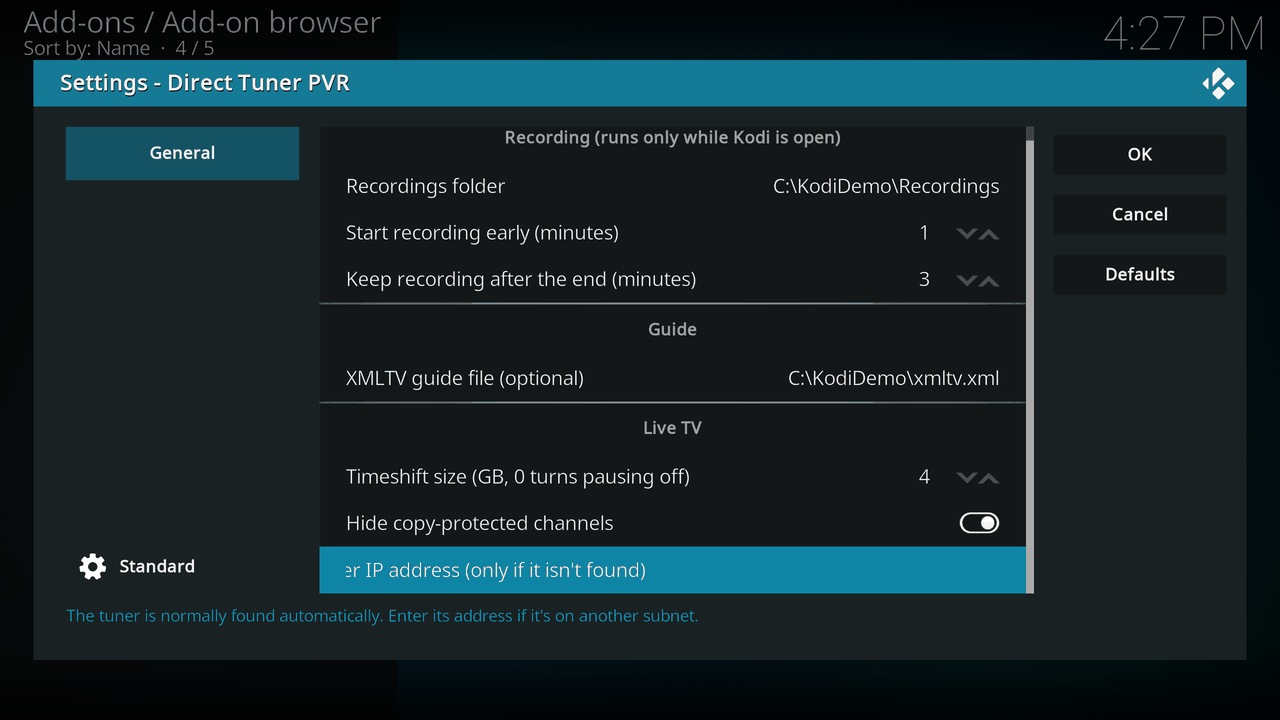
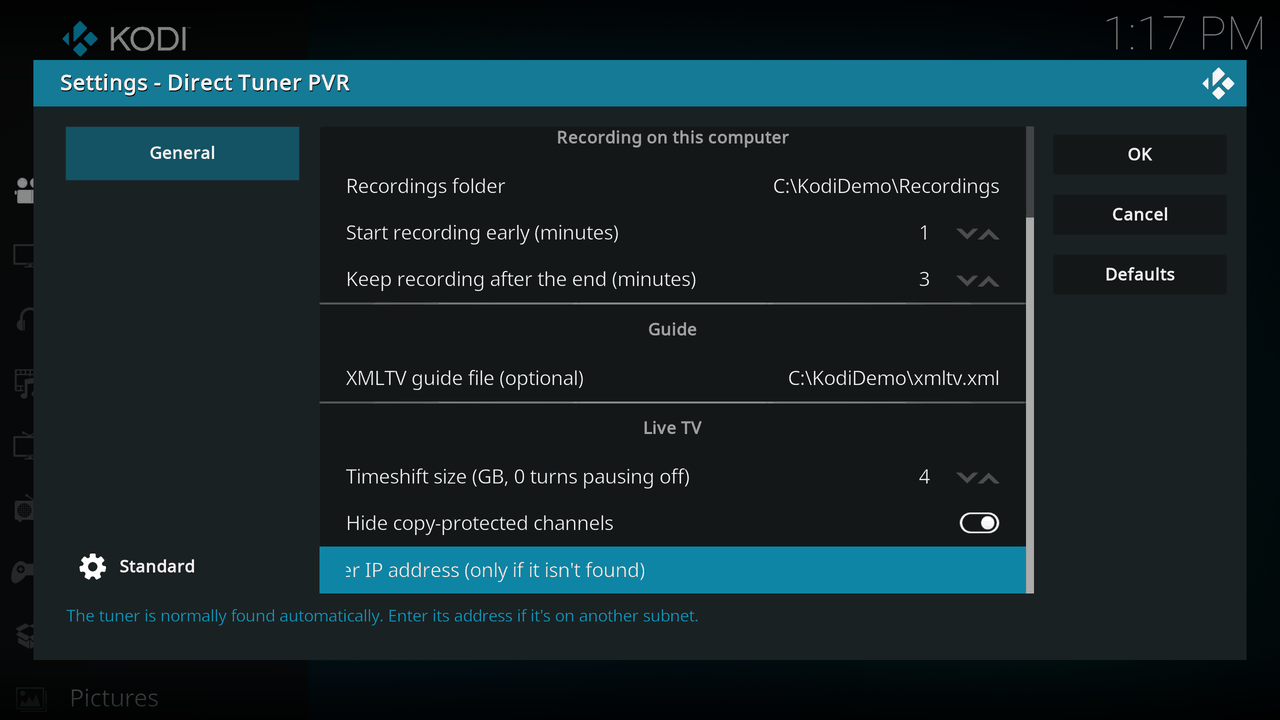
README: lead with Direct Tuner Recorder for recording with Kodi closed; new settings screenshots

diff --git a/README.md b/README.md
@@ -5,10 +5,13 @@ need NextPVR or any other server, and you don't need a SiliconDust DVR subscript
 
 **This is a pre-release for testing.** Expect rough edges, and please [report problems](#reporting-a-problem).
 
-**On its own, the add-on records only while Kodi is open.** To record with Kodi closed, and to share
-timers, recordings and tuners between every Kodi in the house, also install
-[Direct Tuner Recorder](https://github.com/ferrellsl/Direct-Tuner-Recorder) on one always-on Windows
-computer. See [Recording with Kodi closed](#recording-with-kodi-closed).
+**Recording with Kodi closed:** install
+[Direct Tuner Recorder](https://github.com/ferrellsl/Direct-Tuner-Recorder) on one computer that's usually
+on, running Windows or Linux. It records whether or not Kodi is running, wakes a Windows computer from sleep
+to record, and lets every Kodi in the house share the same timers, recordings and tuners. Each Kodi finds
+it by itself: there's nothing to set up in Kodi. See [Recording with Kodi closed](#recording-with-kodi-closed).
+
+Without the recorder, the add-on still records, but only while Kodi is open.
 
 ## What you need
 
@@ -127,12 +130,13 @@ Everything here is optional. Open the settings with **Configure**, as shown abov
 
 ![The last of the settings](docs/images/08-settings-more.png)
 
-Kodi restarts the add-on when you change most settings, which stops any recording in progress.
-
 When the add-on uses Direct Tuner Recorder, the recordings folder, guide file, copy-protected channels
 and tuner address are set in the recorder instead, and those settings here aren't used. The early and
 late minutes and the timeshift size still apply: new timers get this Kodi's padding, and pausing live
 TV happens on each Kodi's own computer.
+
+Kodi restarts the add-on when you change most settings. Without the recorder, that stops any recording
+in progress; with it, recordings carry on, since the recorder makes them.
 
 ## Guide
 
@@ -191,26 +195,32 @@ Each recording is a `.ts` file with a `.json` file of the same name beside it.
 
 ## Recording with Kodi closed
 
-[Direct Tuner Recorder](https://github.com/ferrellsl/Direct-Tuner-Recorder) is a separate, optional
-program for Windows. Install it on **one** computer that's usually on. It runs in the background and:
+[Direct Tuner Recorder](https://github.com/ferrellsl/Direct-Tuner-Recorder) is a separate program for
+Windows 10 or 11 (64-bit) or Linux (x86_64; the Linux version is untested so far). Install it on **one**
+computer that's usually on, following its README. It runs in the background and:
 
-- Records your timers whether or not Kodi is running, and wakes the computer from sleep to record.
+- Records your timers whether or not Kodi is running. On Windows it wakes the computer from sleep to
+  record; on Linux, turn off automatic sleep on that computer.
 - Shares one set of timers, recordings and tuners with every Kodi in the house, on any device.
 - Lets a recording take a tuner back from live TV on any Kodi, so a show isn't missed when every
   tuner is in use.
 
 You don't change anything in Kodi. With this add-on's default settings, every Kodi finds the recorder
-by itself the next time it starts and shows a notice that it's using it. Any timers a Kodi had move to
+by itself the next time it starts and shows a notice that it's using it. From then on you schedule,
+watch and delete in Kodi exactly as described above, and you can close Kodi or turn that device off. Any timers a Kodi had move to
 the recorder automatically. Recordings that Kodi made on its own stay where they are; to see them
 alongside the new ones, move their files into the recorder's recordings folder.
 
-Only install the recorder on one computer per tuner.
+Only install the recorder on one computer per tuner. If a Kodi doesn't find it, for example on another
+subnet, set **Direct Tuner Recorder** to **Use this address** in the [settings](#settings) and enter the
+recorder computer's address.
 
 ## Known limits
 
-- **Without Direct Tuner Recorder, recordings run only while Kodi is open.** Close Kodi during a
-  recording and it stops. If you reopen Kodi before the show ends, recording carries on in a second
-  file. Kodi must also stay awake, so set your PC not to sleep.
+- **Without [Direct Tuner Recorder](#recording-with-kodi-closed), recordings run only while Kodi is
+  open.** Close Kodi during a recording and it stops; if you reopen Kodi before the show ends, recording
+  carries on in a second file. That Kodi's device must also stay awake. With the recorder, none of this
+  applies.
 - **A recording takes priority over live TV.** If every tuner is busy, a recording stops whatever live TV
   you're watching. Watching and recording the same channel uses only one tuner.
 - **"Play recording / Switch to channel".** Kodi asks this when you open a channel that's recording. It's
